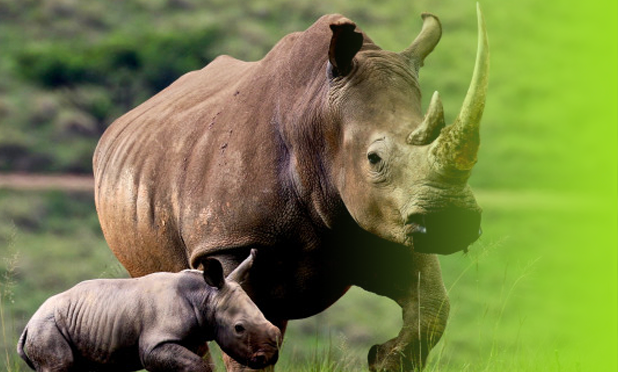
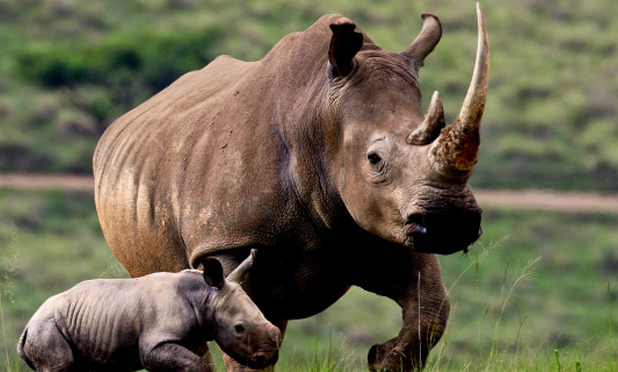
Final - Commit 6
+ Added new bottom card images
+ Added new banner image
+ Added circle id for later use for hamburger menu
+ Added CSS card gradient shadow overlays
+ Added shadow to navbar

- Deleted old images

* Fixed mobile, small, medium, and large widths for 3 box cards
* Changed nav color, top and bottom

diff --git a/Final/style.css b/Final/style.css
@@ -32,6 +32,7 @@ header .top {
     display: flex;
     justify-content: flex-end;
     margin: 0;
+    background-color: white;
 }
 
 header .top li {
@@ -62,6 +63,15 @@ header .top .icon-wrapper img {
     flex-direction: column;
     z-index: 10001;
     position: fixed;
+    right: 20px;
+    background-color: white;
+}
+
+#circle{
+    width: 100px;
+    height: 100px;
+    background: red;
+    border-radius: 50%
 }
 
 #mobile-menu #hamburger-icon span {
@@ -69,6 +79,13 @@ header .top .icon-wrapper img {
     height: 2px;
     background-color: black;
     margin-bottom: 4px;
+}
+
+#mobile-menu #hamburger-icon span #circle{
+    width: 100px;
+    height: 100px;
+    background: red;
+    border-radius: 50%
 }
 
 #mobile-menu .menu-container {
@@ -107,9 +124,15 @@ header .top .icon-wrapper img {
 
 /* NavBar (Header Bottom) */
 
+header{
+    background-color: #006438;
+    box-shadow: 0px 9px 18px 0px rgba(0,0,0,1);
+}
+
 header .bottom {
     display: flex;
     justify-content: space-between;
+    /* background-color: pink; */
 }
 
 header .bottom .desktop-menu {
@@ -133,6 +156,8 @@ header .bottom ul li {
     font-size: 28px;
     font-family: 'webfont';
     text-transform: uppercase;
+    color: white;
+    letter-spacing: 2px;
 }
 
 /* BANNER IMAGE */
@@ -143,7 +168,9 @@ header .bottom ul li {
     width: 100%;
     background-image: cover;
     background-size: cover;
-    background-image: url('images/mainbanner.png');
+   
+    background-image: linear-gradient(to bottom, rgba(255, 255, 255, 0.02), rgba(0, 0, 0, 0.73)),url('images/mainbanner-2.png');
+/* background-image: url('images/mainbanner-2.png');    */
     background-repeat: no-repeat;
     position: relative;
     background-position: center;
@@ -218,7 +245,8 @@ header .bottom ul li {
 }
 
 .three-boxes .card {
-    width: 300px;
+    width: 300px; /* mobile */
+    margin: auto;
 }
 
 .card-subHeading {
@@ -282,7 +310,7 @@ footer .main {
 
 }
 
-footer left .inner-main {
+footer .left .inner-main {
 
     font-family: 'Open Sans', sans-serif;
     color: white;
@@ -334,9 +362,87 @@ footer .footer-bottom ul {
         display: none !important;
     }
 
+    .three-boxes .card {
+        width: 400px; /* mobile */
+    }
     .three-boxes {
-        display: flex !important;
-        justify-content: space-between;
-        margin: 50px 40px;
+        /* display: flex !important;
+        justify-content: space-between; */
+        margin: auto;
+    }
+
+    
+}
+
+/*************MEDIUM SCREENS*******************/
+@media (min-width: 768px) {
+    /* body {
+    background-color: orange;
+} */
+    
+    .med-width-25 {
+        width: 25%;
+    }
+
+    .med-width-33 {
+        width: 33.3333%;
+    }
+
+    .med-width-50 {
+        width: 50%;
+    }
+
+    .med-width-100 {
+        width: 100%;
+    }
+
+    .three-boxes .card {
+        width: 90%; 
+    }
+    .three-boxes {
+        /* display: flex !important;
+        justify-content: space-between; */
+        margin: auto;
     }
 }
+
+
+      /*************LARGE SCREENS*******************/
+      @media (min-width: 992px) {
+
+
+        .text-on-image {
+            font-size: 40px;
+        }
+
+        .body-header {
+            font-size: 82px;
+        }
+
+        .large-width-25 {
+            width: 25%;
+        }
+
+        .large-width-33 {
+            width: 33.33333%;
+        }
+
+        .large-width-50 {
+            width: 50%;
+        }
+
+        .large-width-100 {
+            width: 100%;
+        }
+
+
+        .three-boxes .card {
+            width: 300px; 
+        }
+        .three-boxes {
+            display: flex !important;
+            justify-content: space-between;
+            /* margin: 50px 40px; */
+        }
+    }
+        
